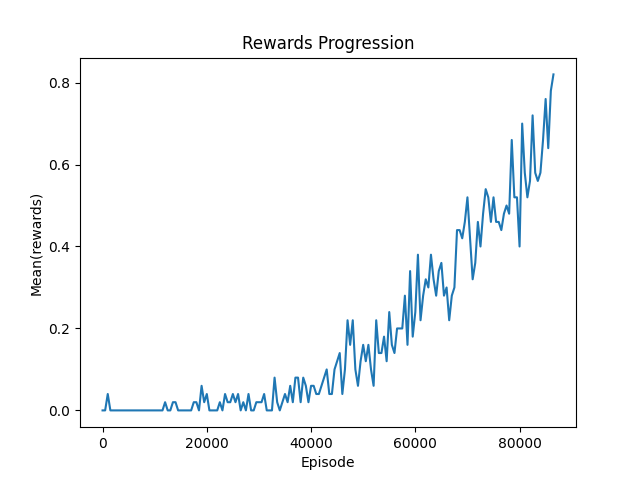
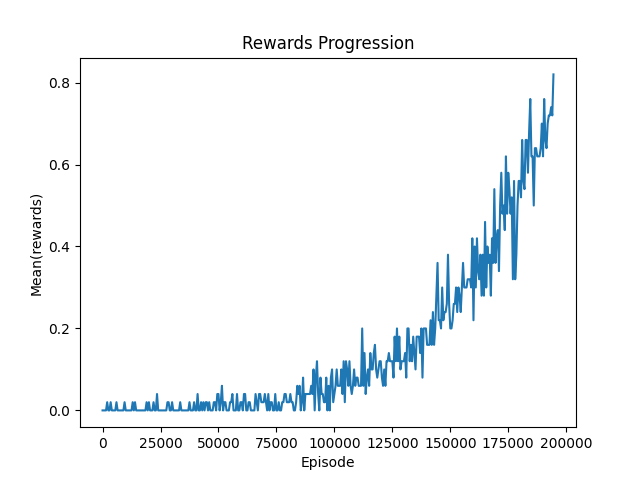
Frozen lake save & load model

Changed region(s): [[0.1562, 0.1562, 0.875, 0.875], [0.4062, 0.9062, 0.9375, 0.9375], [0.2188, 0.9062, 0.375, 0.9375]]

diff --git a/Frozen Lake/frozenLake.qLearning.py b/Frozen Lake/frozenLake.qLearning.py
@@ -5,25 +5,30 @@ import numpy as np
 import statistics
 import tqdm
 import matplotlib.pyplot as plt
+import json
+import os
 
 # Solved at episode 15000: average reward: 0.80!
 # 15000/50000 [00:10<00:24, 1454.93it/s, mean_reward=0.8]
 
+model_file_name = os.path.dirname(__file__) + "/model.json"
+load_model = True
+train_model = True
+
 # Hyperparameters
-learning_rate = 0.1
+learning_rate = 0.01
 discount_rate = 0.99
 min_episodes_criterion = 50
-max_episodes = 200000
+max_episodes = 250000
 epsilon = 1
-epsilon_decay = 1 / (max_episodes * 10)
-reward_threshold = 0.7
+epsilon_decay = 1 / (max_episodes * 0.8)
+reward_threshold = 0.8
 log_stats_step = 500
 demos = 3
 
 # Set seed for experiment reproducibility
 is_slippery = True
-env_name = "FrozenLake-v1"
-map_name = "8x8"
+env_name = "FrozenLake8x8-v1"
 render_mode = None
 seed = 42
 np.random.seed(seed)
@@ -31,18 +36,22 @@ np.random.seed(seed)
 mean_reward = 0
 
 # Store the last min_episodes_criterion episodes rewards & max_x
-episodes_reward: collections.deque = collections.deque(
-    maxlen=min_episodes_criterion)
+episodes_reward: collections.deque = collections.deque(maxlen=min_episodes_criterion)
 
 # Store statistics of episodes_reward and episodes_max_x
 episodes_reward_stats = []
 
+current_dir = os.path.basename(os.getcwd())
+
 # Create the environment
-env = gym.make(env_name, render_mode=render_mode,
-               is_slippery=is_slippery, map_name=map_name, max_episode_steps=200)
+env = gym.make(
+    env_name,
+    render_mode=render_mode,
+    is_slippery=is_slippery,
+)
 
 
-class Qtable():
+class Qtable:
     def __init__(self, env: gym.Env):
         """Build empty Qtable"""
         self.env = env
@@ -52,13 +61,26 @@ class Qtable():
         """Call the model and get action"""
         return np.argmax(self.qTable[state])
 
+    def load(self):
+        """Load the model from saved file"""
+        with open(model_file_name, "r") as f:
+            data = json.load(f)
+        self.qTable = np.array(data)
+        print(f"model loaded from ${model_file_name}")
+
+    def save(self):
+        """Save the model to file"""
+        with open(model_file_name, "w") as f:
+            json.dump(qLearning.qTable.tolist(), f)
+
     def train(self, state, action, reward, next_state) -> int:
         """Update the current value (Q_v_t: [state_t, action_t]) with the reward, and the expected value (Q_v_t+1) following the policy"""
         optimazed_reward = self.optimaze_reward(reward)
-        delta = learning_rate*(optimazed_reward +
-                               discount_rate *
-                               np.max(self.qTable[next_state])
-                               - self.qTable[state, action])
+        delta = learning_rate * (
+            optimazed_reward
+            + discount_rate * np.max(self.qTable[next_state])
+            - self.qTable[state, action]
+        )
         self.qTable[state, action] += delta
 
     def updateDone(self, state, action, reward):
@@ -67,8 +89,8 @@ class Qtable():
 
     def plot(self):
         """Plot the Qtable"""
-        signs = ['<', 'v', '>', '^']
-        colors = [[0.8, 0.8, 0], 'red', 'green', "blue"]  # dark yellow
+        signs = ["<", "v", ">", "^"]
+        colors = [[0.8, 0.8, 0], "red", "green", "blue"]  # dark yellow
         n = len(self.qTable)
         s = int(math.sqrt(n))
 
@@ -78,18 +100,18 @@ class Qtable():
             y = int((i - x) / s)
             y = -y
 
-            if (i == n-1):
-                marker = '*'
-                color = 'orange'
+            if i == n - 1:
+                marker = "*"
+                color = "orange"
             else:
                 marker = signs[action]
                 color = colors[action]
 
             plt.plot(x, y, marker=marker, color=color)
 
-        plt.xlabel('X')
-        plt.ylabel('Y')
-        plt.title('State/Action Map (Qtable)')
+        plt.xlabel("X")
+        plt.ylabel("Y")
+        plt.title("State/Action Map (Qtable)")
         plt.show()
 
     def optimaze_reward(self, reward):
@@ -98,74 +120,87 @@ class Qtable():
 
 
 qLearning = Qtable(env)
+if load_model:
+    qLearning.load()
 
-print(
-    f'Training started for: {env_name}, target: {reward_threshold}, (last {min_episodes_criterion} runs).')
-max_episodes_tqdm = tqdm.trange(max_episodes)
-
-# Exploring (training episodes)
-for episode in max_episodes_tqdm:
-    episode_reward = 0
-    done = False
-    state, info = env.reset()
-
-    # Running steps of episode
-    while done is not True:
-        # epsilon-greedy policy, explore until epsilon nullifies
-        if (epsilon > 0.001 and np.random.random() < epsilon):
-            epsilon -= epsilon_decay
-            action = env.action_space.sample()
-        else:
-            action = qLearning(state)
-
-        # Take action, train, and store update episode values
-        next_state, reward, done, truncated, info = env.step(action)
-        qLearning.train(state, action, reward, next_state)
-        episode_reward += reward
-
-        # Allow for terminal states
-        if done:
-            qLearning.updateDone(state, action, reward)
-
-        elif truncated:
-            done = True
-
-        # Prepare for next step
-        state = next_state
-
-    episodes_reward.append(episode_reward)
-
-    if episode % log_stats_step == 0 and episode > 0:
-        # Add statistics
-        mean_reward = statistics.mean(episodes_reward)
-        max_episodes_tqdm.set_postfix(epsilon=epsilon, mean_reward=mean_reward)
-        episodes_reward_stats.append(mean_reward)
-
-        if mean_reward >= reward_threshold and episode >= min_episodes_criterion:
-            break
-
-if (mean_reward >= reward_threshold):
+if train_model:
     print(
-        f'\nSolved at episode {episode}: average reward: {mean_reward:.2f}!')
+        f"Training started for: {env_name}, target: {reward_threshold}, (last {min_episodes_criterion} runs)."
+    )
+    max_episodes_tqdm = tqdm.trange(max_episodes)
 
-    steps = np.array(range(0, len(episodes_reward_stats), 1))
-    steps *= log_stats_step
-    plt.plot(steps, episodes_reward_stats)
-    plt.ylabel('Mean(rewards)')
-    plt.xlabel('Episode')
-    plt.ylim()
-    plt.title('Rewards Progression')
-    plt.show()
+    # Exploring (training episodes)
+    for episode in max_episodes_tqdm:
+        episode_reward = 0
+        done = False
+        state, info = env.reset()
 
-else:
-    print(f'\nNot solved, mean reward: {mean_reward:.2f}!')
+        # Running steps of episode
+        while done is not True:
+            # epsilon-greedy policy, explore until epsilon nullifies
+            if epsilon > 0.001 and np.random.random() < epsilon:
+                action = env.action_space.sample()
+            else:
+                action = qLearning(state)
+
+            # Take action, train, and store update episode values
+            next_state, reward, done, truncated, info = env.step(action)
+            qLearning.train(state, action, reward, next_state)
+            episode_reward += reward
+
+            # Allow for terminal states
+            if done:
+                qLearning.updateDone(state, action, reward)
+
+            elif truncated:
+                done = True
+
+            # Prepare for next step
+            state = next_state
+
+        if epsilon > 0.005:
+            epsilon -= epsilon_decay
+        else:
+            epsilon = 0
+        episodes_reward.append(episode_reward)
+
+        if episode % log_stats_step == 0 and episode > 0:
+            # Add statistics
+            mean_reward = statistics.mean(episodes_reward)
+            max_episodes_tqdm.set_postfix(epsilon=epsilon, mean_reward=mean_reward)
+            episodes_reward_stats.append(mean_reward)
+
+            if mean_reward >= reward_threshold and episode >= min_episodes_criterion:
+                break
+
+    if mean_reward >= reward_threshold:
+        print(f"\nSolved at episode {episode}: average reward: {mean_reward:.2f}!")
+
+        # save the model
+        with open(f"{os.path.dirname(__file__)}/model.json", "w") as f:
+            json.dump(qLearning.qTable.tolist(), f)
+
+        steps = np.array(range(0, len(episodes_reward_stats), 1))
+        steps *= log_stats_step
+        plt.plot(steps, episodes_reward_stats)
+        plt.ylabel("Mean(rewards)")
+        plt.xlabel("Episode")
+        plt.ylim()
+        plt.title("Rewards Progression")
+        plt.show()
+
+    else:
+        print(f"\nNot solved, mean reward: {mean_reward:.2f}!")
 
 env.close()
 
 # Demo (Exploitation of the model)
 render_mode = "human"
-env = gym.make(env_name, render_mode=render_mode,
-               is_slippery=is_slippery, map_name=map_name)
+env = gym.make(
+    env_name,
+    render_mode=render_mode,
+    is_slippery=is_slippery,
+)
 for i in range(demos):
     state, info = env.reset()
     done = False
